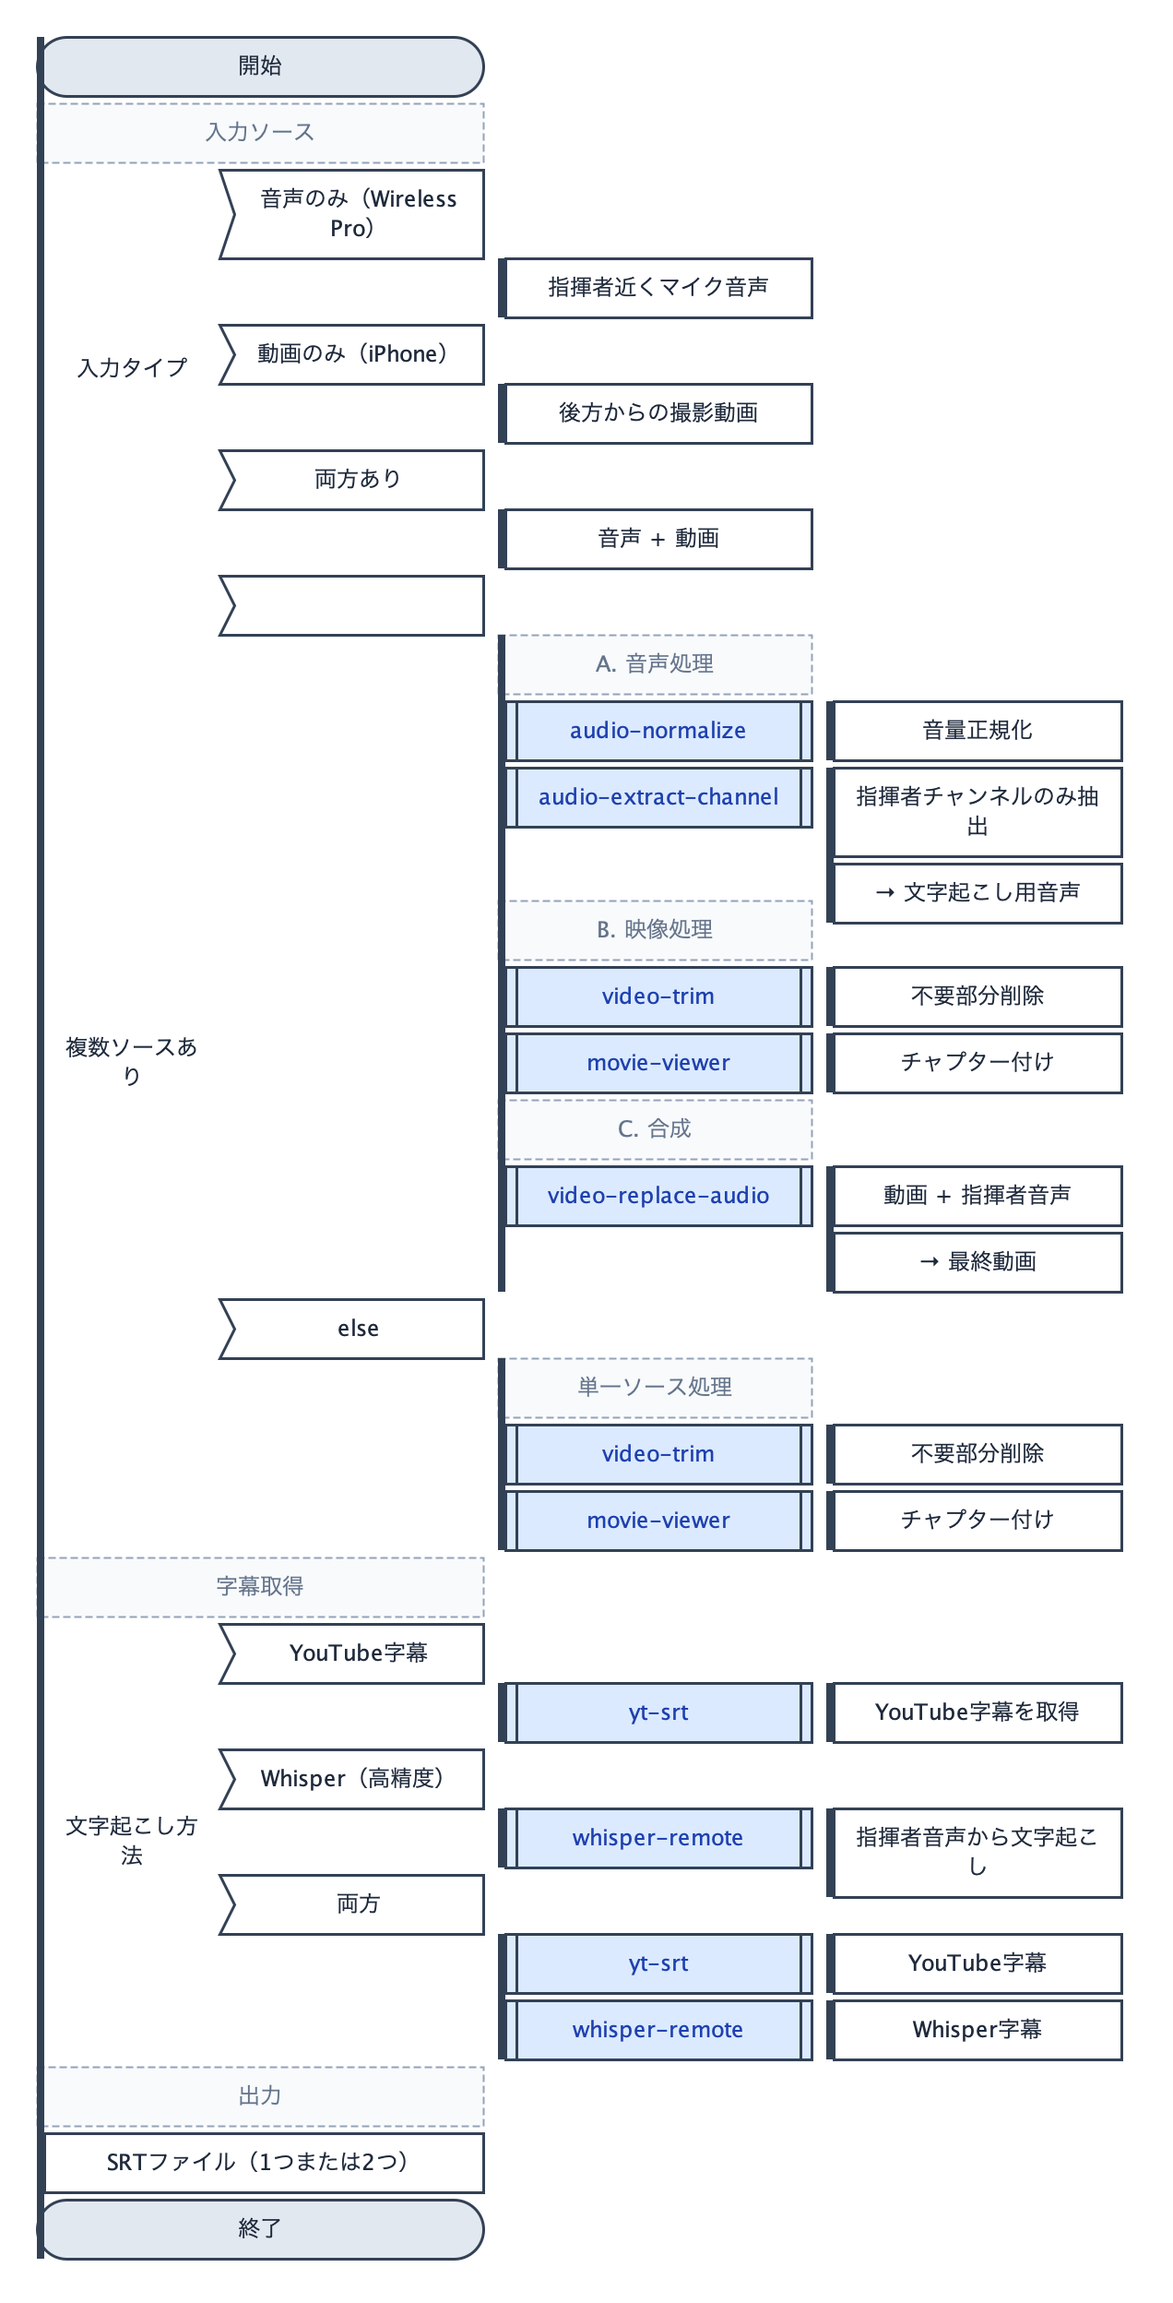
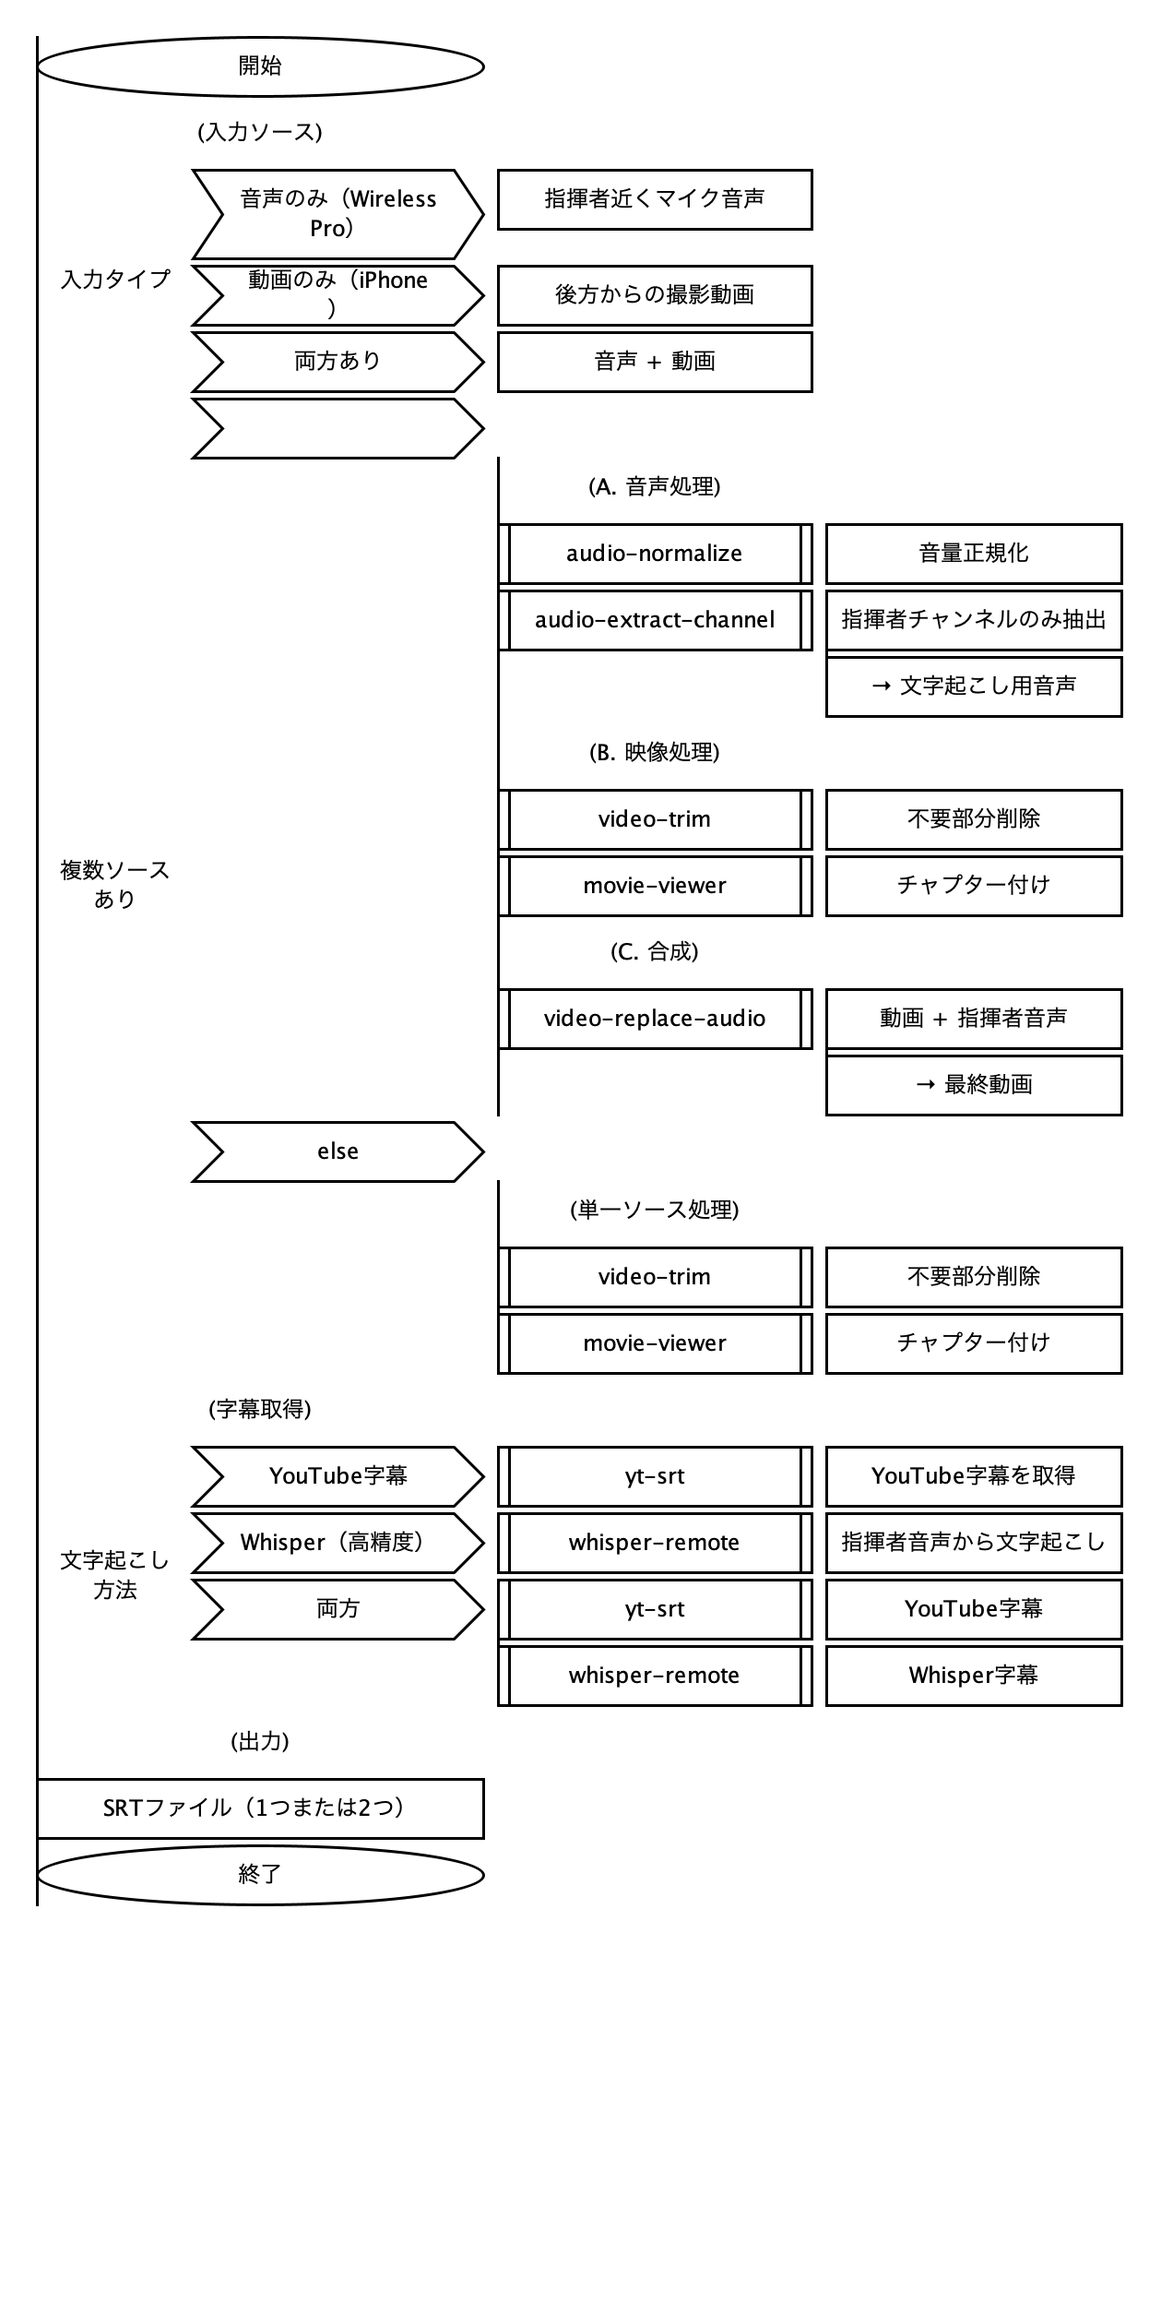
Restore original PADtools visual style with column alignment
- Terminal nodes: ellipse shape (was rounded rectangle)
- Comments: parenthesized text only, no box
- Selection/If: chevron arrow shape
- Colors: black and white only (removed color fills)
- Call boxes: double vertical lines on sides
- Maintained: column alignment and text wrapping

🤖 Generated with [Claude Code](https://claude.com/claude-code)

diff --git a/tools/PadAlignedRenderer.java b/tools/PadAlignedRenderer.java
@@ -29,8 +29,7 @@ public class PadAlignedRenderer {
     private static final int BOX_MAX_WIDTH = 180;  // Maximum width before text wrapping
     private static final int COLUMN_GAP = 8;
     private static final int ROW_GAP = 4;
-    private static final int SPINE_WIDTH = 4;
-    private static final int BAR_WIDTH = 6;
+    private static final int BAR_WIDTH = 6;  // For call box double lines
     private static final int TERMINAL_RADIUS = 16;
     private static final int LINE_HEIGHT = 16;
     private static final int TEXT_PADDING = 8;
@@ -39,17 +38,10 @@ public class PadAlignedRenderer {
     private static final Font MAIN_FONT = new Font("Hiragino Kaku Gothic ProN", Font.PLAIN, 12);
     private static final Font COMMENT_FONT = new Font("Hiragino Kaku Gothic ProN", Font.PLAIN, 10);
 
-    // Colors
-    private static final Color SPINE_COLOR = new Color(0x33, 0x41, 0x55);
-    private static final Color BOX_STROKE = new Color(0x33, 0x41, 0x55);
-    private static final Color BOX_FILL = Color.WHITE;
-    private static final Color CALL_FILL = new Color(0xDB, 0xEA, 0xFE);
-    private static final Color CALL_TEXT = new Color(0x1E, 0x40, 0xAF);
-    private static final Color TERMINAL_FILL = new Color(0xE2, 0xE8, 0xF0);
-    private static final Color COMMENT_FILL = new Color(0xF8, 0xFA, 0xFC);
-    private static final Color COMMENT_STROKE = new Color(0x94, 0xA3, 0xB8);
-    private static final Color TEXT_COLOR = new Color(0x1E, 0x29, 0x3B);
-    private static final Color COMMENT_TEXT = new Color(0x64, 0x74, 0x8B);
+    // Colors - Original PADtools style (black & white)
+    private static final Color STROKE_COLOR = Color.BLACK;
+    private static final Color FILL_COLOR = Color.WHITE;
+    private static final Color TEXT_COLOR = Color.BLACK;
 
     // Layout state
     private Map<Integer, Double> columnWidths = new HashMap<>();
@@ -334,10 +326,11 @@ public class PadAlignedRenderer {
                 y = drawNode(child, depth, y);
                 y += ROW_GAP;
             }
-            // Draw spine
+            // Draw vertical connecting line (original PADtools style)
             if (list.getChildren().size() > 1) {
-                g2d.setColor(SPINE_COLOR);
-                g2d.fill(new Rectangle2D.Double(x, startY, SPINE_WIDTH, y - startY - ROW_GAP));
+                g2d.setColor(STROKE_COLOR);
+                g2d.setStroke(new BasicStroke(1.5f));
+                g2d.drawLine((int)x, (int)startY, (int)x, (int)(y - ROW_GAP));
             }
             return y - ROW_GAP;
         } else if (node instanceof TerminalNode) {
@@ -363,62 +356,48 @@ public class PadAlignedRenderer {
         String text = node.getText();
         double boxHeight = getTextBoxHeight(text, width);
 
-        RoundRectangle2D rect = new RoundRectangle2D.Double(
-            x, y, width, boxHeight, TERMINAL_RADIUS * 2, TERMINAL_RADIUS * 2);
-        g2d.setColor(TERMINAL_FILL);
-        g2d.fill(rect);
-        g2d.setColor(BOX_STROKE);
+        // Draw ellipse (original PADtools style)
+        Ellipse2D ellipse = new Ellipse2D.Double(x, y, width, boxHeight);
+        g2d.setColor(FILL_COLOR);
+        g2d.fill(ellipse);
+        g2d.setColor(STROKE_COLOR);
         g2d.setStroke(new BasicStroke(1.5f));
-        g2d.draw(rect);
+        g2d.draw(ellipse);
 
         drawCenteredText(text, x, y, width, boxHeight, TEXT_COLOR, MAIN_FONT);
         return y + boxHeight;
     }
 
     private double drawComment(CommentNode node, double x, double y, double width) {
-        String text = node.getText();
+        String text = "(" + node.getText() + ")";  // Original PADtools style: parentheses
         double boxHeight = getTextBoxHeight(text, width);
 
-        Rectangle2D rect = new Rectangle2D.Double(x, y, width, boxHeight);
-        g2d.setColor(COMMENT_FILL);
-        g2d.fill(rect);
-        g2d.setColor(COMMENT_STROKE);
-        g2d.setStroke(new BasicStroke(1f, BasicStroke.CAP_BUTT, BasicStroke.JOIN_MITER,
-            10f, new float[]{4f, 2f}, 0f));
-        g2d.draw(rect);
-
-        drawCenteredText(text, x, y, width, boxHeight, COMMENT_TEXT, MAIN_FONT);
+        // No box, just text with parentheses (original PADtools style)
+        drawCenteredText(text, x, y, width, boxHeight, TEXT_COLOR, MAIN_FONT);
         return y + boxHeight;
     }
 
     private double drawCall(CallNode node, int depth, double x, double y, double width) {
         String text = node.getText();
-        double textBoxHeight = getTextBoxHeight(text, width - SPINE_WIDTH - BAR_WIDTH * 2);
+        double textBoxHeight = getTextBoxHeight(text, width - BAR_WIDTH * 2);
         double childHeight = calculateHeight(node.getChildNode());
         double boxHeight = Math.max(textBoxHeight, childHeight);
 
-        // Draw spine
-        g2d.setColor(SPINE_COLOR);
-        g2d.fill(new Rectangle2D.Double(x, y, SPINE_WIDTH, boxHeight));
-
-        // Draw call box with double bars
-        double boxX = x + SPINE_WIDTH;
-        double boxWidth = width - SPINE_WIDTH;
-
-        Rectangle2D rect = new Rectangle2D.Double(boxX, y, boxWidth, textBoxHeight);
-        g2d.setColor(CALL_FILL);
+        // Draw call box with double vertical bars (original PADtools style)
+        Rectangle2D rect = new Rectangle2D.Double(x, y, width, textBoxHeight);
+        g2d.setColor(FILL_COLOR);
         g2d.fill(rect);
-        g2d.setColor(BOX_STROKE);
+        g2d.setColor(STROKE_COLOR);
         g2d.setStroke(new BasicStroke(1.5f));
         g2d.draw(rect);
 
-        // Draw vertical bars
-        g2d.drawLine((int)(boxX + BAR_WIDTH), (int)y, (int)(boxX + BAR_WIDTH), (int)(y + textBoxHeight));
-        g2d.drawLine((int)(boxX + boxWidth - BAR_WIDTH), (int)y,
-                     (int)(boxX + boxWidth - BAR_WIDTH), (int)(y + textBoxHeight));
+        // Draw double vertical bars on left and right
+        g2d.drawLine((int)(x + BAR_WIDTH), (int)y, (int)(x + BAR_WIDTH), (int)(y + textBoxHeight));
+        g2d.drawLine((int)(x + width - BAR_WIDTH), (int)y,
+                     (int)(x + width - BAR_WIDTH), (int)(y + textBoxHeight));
 
-        drawCenteredText(text, boxX + BAR_WIDTH, y,
-                        boxWidth - BAR_WIDTH * 2, textBoxHeight, CALL_TEXT, MAIN_FONT);
+        drawCenteredText(text, x + BAR_WIDTH, y,
+                        width - BAR_WIDTH * 2, textBoxHeight, TEXT_COLOR, MAIN_FONT);
 
         // Draw child
         if (node.getChildNode() != null) {
@@ -430,26 +409,19 @@ public class PadAlignedRenderer {
 
     private double drawProcess(ProcessNode node, int depth, double x, double y, double width) {
         String text = node.getText();
-        double textBoxHeight = getTextBoxHeight(text, width - SPINE_WIDTH);
+        double textBoxHeight = getTextBoxHeight(text, width);
         double childHeight = calculateHeight(node.getChildNode());
         double boxHeight = Math.max(textBoxHeight, childHeight);
 
-        // Draw spine
-        g2d.setColor(SPINE_COLOR);
-        g2d.fill(new Rectangle2D.Double(x, y, SPINE_WIDTH, boxHeight));
-
-        // Draw process box
-        double boxX = x + SPINE_WIDTH;
-        double boxWidth = width - SPINE_WIDTH;
-
-        Rectangle2D rect = new Rectangle2D.Double(boxX, y, boxWidth, textBoxHeight);
-        g2d.setColor(BOX_FILL);
+        // Draw process box (original PADtools style: simple rectangle)
+        Rectangle2D rect = new Rectangle2D.Double(x, y, width, textBoxHeight);
+        g2d.setColor(FILL_COLOR);
         g2d.fill(rect);
-        g2d.setColor(BOX_STROKE);
+        g2d.setColor(STROKE_COLOR);
         g2d.setStroke(new BasicStroke(1.5f));
         g2d.draw(rect);
 
-        drawCenteredText(text, boxX, y, boxWidth, textBoxHeight, TEXT_COLOR, MAIN_FONT);
+        drawCenteredText(text, x, y, width, textBoxHeight, TEXT_COLOR, MAIN_FONT);
 
         // Draw child
         if (node.getChildNode() != null) {
@@ -462,60 +434,60 @@ public class PadAlignedRenderer {
     private double drawSwitch(SwitchNode node, int depth, double x, double y, double width) {
         LinkedHashMap<String, NodeBase> cases = node.getCases();
 
-        double boxX = x + SPINE_WIDTH;
-        double boxWidth = width - SPINE_WIDTH;
-        double conditionWidth = boxWidth * 0.4;
-        double caseWidth = boxWidth - conditionWidth;
+        double conditionWidth = width * 0.35;
+        double arrowWidth = 16;  // Width for arrow part
+        double caseWidth = width - conditionWidth;
 
         // Calculate total height with wrapped text
         double totalHeight = 0;
         for (Map.Entry<String, NodeBase> entry : cases.entrySet()) {
             String caseLabel = entry.getKey();
             NodeBase caseChild = entry.getValue();
-            double caseBoxHeight = getTextBoxHeight(caseLabel, caseWidth - 8);
-            totalHeight += caseBoxHeight + ROW_GAP + calculateHeight(caseChild);
+            double caseBoxHeight = getTextBoxHeight(caseLabel, caseWidth - arrowWidth);
+            double childHeight = calculateHeight(caseChild);
+            totalHeight += Math.max(caseBoxHeight, childHeight) + ROW_GAP;
         }
         totalHeight -= ROW_GAP;
 
-        // Draw spine
-        g2d.setColor(SPINE_COLOR);
-        g2d.fill(new Rectangle2D.Double(x, y, SPINE_WIDTH, totalHeight));
-
-        // Draw condition text on left
-        drawCenteredText(node.getText(), boxX, y, conditionWidth, totalHeight, TEXT_COLOR, MAIN_FONT);
+        // Draw condition text on left (original style: plain text)
+        drawCenteredText(node.getText(), x, y, conditionWidth, totalHeight, TEXT_COLOR, MAIN_FONT);
 
         // Draw cases
         double caseY = y;
-        double caseX = boxX + conditionWidth;
+        double caseX = x + conditionWidth;
 
         for (Map.Entry<String, NodeBase> entry : cases.entrySet()) {
             String caseLabel = entry.getKey();
             NodeBase caseChild = entry.getValue();
-            double caseBoxHeight = getTextBoxHeight(caseLabel, caseWidth - 8);
+            double caseBoxHeight = getTextBoxHeight(caseLabel, caseWidth - arrowWidth);
+            double childHeight = calculateHeight(caseChild);
+            double rowHeight = Math.max(caseBoxHeight, childHeight);
 
-            // Draw flag shape for case
-            Path2D flag = new Path2D.Double();
-            flag.moveTo(caseX, caseY);
-            flag.lineTo(caseX + caseWidth, caseY);
-            flag.lineTo(caseX + caseWidth, caseY + caseBoxHeight);
-            flag.lineTo(caseX, caseY + caseBoxHeight);
-            flag.lineTo(caseX + 8, caseY + caseBoxHeight/2);
-            flag.closePath();
+            // Draw arrow shape (original PADtools style: chevron pointing right)
+            Path2D arrow = new Path2D.Double();
+            arrow.moveTo(caseX, caseY);
+            arrow.lineTo(caseX + caseWidth - arrowWidth, caseY);
+            arrow.lineTo(caseX + caseWidth, caseY + caseBoxHeight / 2);
+            arrow.lineTo(caseX + caseWidth - arrowWidth, caseY + caseBoxHeight);
+            arrow.lineTo(caseX, caseY + caseBoxHeight);
+            arrow.lineTo(caseX + arrowWidth, caseY + caseBoxHeight / 2);
+            arrow.closePath();
 
-            g2d.setColor(BOX_FILL);
-            g2d.fill(flag);
-            g2d.setColor(BOX_STROKE);
+            g2d.setColor(FILL_COLOR);
+            g2d.fill(arrow);
+            g2d.setColor(STROKE_COLOR);
             g2d.setStroke(new BasicStroke(1.5f));
-            g2d.draw(flag);
+            g2d.draw(arrow);
 
-            drawCenteredText(caseLabel, caseX + 8, caseY, caseWidth - 8, caseBoxHeight, TEXT_COLOR, MAIN_FONT);
+            drawCenteredText(caseLabel, caseX + arrowWidth, caseY,
+                            caseWidth - arrowWidth * 2, caseBoxHeight, TEXT_COLOR, MAIN_FONT);
 
-            caseY += caseBoxHeight + ROW_GAP;
-
+            // Draw child
             if (caseChild != null) {
-                caseY = drawNode(caseChild, depth + 1, caseY - ROW_GAP);
-                caseY += ROW_GAP;
+                drawNode(caseChild, depth + 1, caseY);
             }
+
+            caseY += rowHeight + ROW_GAP;
         }
 
         return y + totalHeight;
@@ -527,34 +499,30 @@ public class PadAlignedRenderer {
             BOX_HEIGHT + calculateHeight(node.getFalseNode()) : 0;
         double totalHeight = thenHeight + elseHeight + (elseHeight > 0 ? ROW_GAP : 0);
 
-        // Draw spine
-        g2d.setColor(SPINE_COLOR);
-        g2d.fill(new Rectangle2D.Double(x, y, SPINE_WIDTH, totalHeight));
+        double conditionWidth = width * 0.35;
+        double arrowWidth = 16;
+        double branchWidth = width - conditionWidth;
 
-        double boxX = x + SPINE_WIDTH;
-        double boxWidth = width - SPINE_WIDTH;
-        double conditionWidth = boxWidth * 0.4;
+        // Draw condition text on left (original style)
+        drawCenteredText(node.getText(), x, y, conditionWidth, totalHeight, TEXT_COLOR, MAIN_FONT);
 
-        // Draw condition
-        drawCenteredText(node.getText(), boxX, y, conditionWidth, totalHeight, TEXT_COLOR, MAIN_FONT);
+        // Draw then branch with arrow shape (original PADtools style)
+        double branchX = x + conditionWidth;
 
-        // Draw then branch (flag shape)
-        double branchX = boxX + conditionWidth;
-        double branchWidth = boxWidth - conditionWidth;
+        Path2D thenArrow = new Path2D.Double();
+        thenArrow.moveTo(branchX, y);
+        thenArrow.lineTo(branchX + branchWidth - arrowWidth, y);
+        thenArrow.lineTo(branchX + branchWidth, y + BOX_HEIGHT / 2);
+        thenArrow.lineTo(branchX + branchWidth - arrowWidth, y + BOX_HEIGHT);
+        thenArrow.lineTo(branchX, y + BOX_HEIGHT);
+        thenArrow.lineTo(branchX + arrowWidth, y + BOX_HEIGHT / 2);
+        thenArrow.closePath();
 
-        Path2D thenFlag = new Path2D.Double();
-        thenFlag.moveTo(branchX, y);
-        thenFlag.lineTo(branchX + branchWidth, y);
-        thenFlag.lineTo(branchX + branchWidth, y + BOX_HEIGHT);
-        thenFlag.lineTo(branchX, y + BOX_HEIGHT);
-        thenFlag.lineTo(branchX + 8, y + BOX_HEIGHT/2);
-        thenFlag.closePath();
-
-        g2d.setColor(BOX_FILL);
-        g2d.fill(thenFlag);
-        g2d.setColor(BOX_STROKE);
+        g2d.setColor(FILL_COLOR);
+        g2d.fill(thenArrow);
+        g2d.setColor(STROKE_COLOR);
         g2d.setStroke(new BasicStroke(1.5f));
-        g2d.draw(thenFlag);
+        g2d.draw(thenArrow);
 
         // Draw then child
         double thenY = y + BOX_HEIGHT;
@@ -566,21 +534,23 @@ public class PadAlignedRenderer {
         if (node.getFalseNode() != null) {
             double elseY = thenY + ROW_GAP;
 
-            Path2D elseFlag = new Path2D.Double();
-            elseFlag.moveTo(branchX, elseY);
-            elseFlag.lineTo(branchX + branchWidth, elseY);
-            elseFlag.lineTo(branchX + branchWidth, elseY + BOX_HEIGHT);
-            elseFlag.lineTo(branchX, elseY + BOX_HEIGHT);
-            elseFlag.lineTo(branchX + 8, elseY + BOX_HEIGHT/2);
-            elseFlag.closePath();
+            Path2D elseArrow = new Path2D.Double();
+            elseArrow.moveTo(branchX, elseY);
+            elseArrow.lineTo(branchX + branchWidth - arrowWidth, elseY);
+            elseArrow.lineTo(branchX + branchWidth, elseY + BOX_HEIGHT / 2);
+            elseArrow.lineTo(branchX + branchWidth - arrowWidth, elseY + BOX_HEIGHT);
+            elseArrow.lineTo(branchX, elseY + BOX_HEIGHT);
+            elseArrow.lineTo(branchX + arrowWidth, elseY + BOX_HEIGHT / 2);
+            elseArrow.closePath();
 
-            g2d.setColor(BOX_FILL);
-            g2d.fill(elseFlag);
-            g2d.setColor(BOX_STROKE);
+            g2d.setColor(FILL_COLOR);
+            g2d.fill(elseArrow);
+            g2d.setColor(STROKE_COLOR);
             g2d.setStroke(new BasicStroke(1.5f));
-            g2d.draw(elseFlag);
+            g2d.draw(elseArrow);
 
-            drawCenteredText("else", branchX + 8, elseY, branchWidth - 8, BOX_HEIGHT, TEXT_COLOR, MAIN_FONT);
+            drawCenteredText("else", branchX + arrowWidth, elseY,
+                            branchWidth - arrowWidth * 2, BOX_HEIGHT, TEXT_COLOR, MAIN_FONT);
 
             drawNode(node.getFalseNode(), depth + 1, elseY + BOX_HEIGHT);
         }
@@ -592,22 +562,15 @@ public class PadAlignedRenderer {
         double childHeight = calculateHeight(node.getChildNode());
         double boxHeight = Math.max(BOX_HEIGHT, childHeight + BOX_HEIGHT);
 
-        // Draw spine
-        g2d.setColor(SPINE_COLOR);
-        g2d.fill(new Rectangle2D.Double(x, y, SPINE_WIDTH, boxHeight));
-
-        // Draw loop condition box
-        double boxX = x + SPINE_WIDTH;
-        double boxWidth = width - SPINE_WIDTH;
-
-        Rectangle2D rect = new Rectangle2D.Double(boxX, y, boxWidth, BOX_HEIGHT);
-        g2d.setColor(BOX_FILL);
+        // Draw loop condition box (original PADtools style)
+        Rectangle2D rect = new Rectangle2D.Double(x, y, width, BOX_HEIGHT);
+        g2d.setColor(FILL_COLOR);
         g2d.fill(rect);
-        g2d.setColor(BOX_STROKE);
+        g2d.setColor(STROKE_COLOR);
         g2d.setStroke(new BasicStroke(1.5f));
         g2d.draw(rect);
 
-        drawCenteredText(node.getText(), boxX, y, boxWidth, BOX_HEIGHT, TEXT_COLOR, MAIN_FONT);
+        drawCenteredText(node.getText(), x, y, width, BOX_HEIGHT, TEXT_COLOR, MAIN_FONT);
 
         // Draw child
         if (node.getChildNode() != null) {
